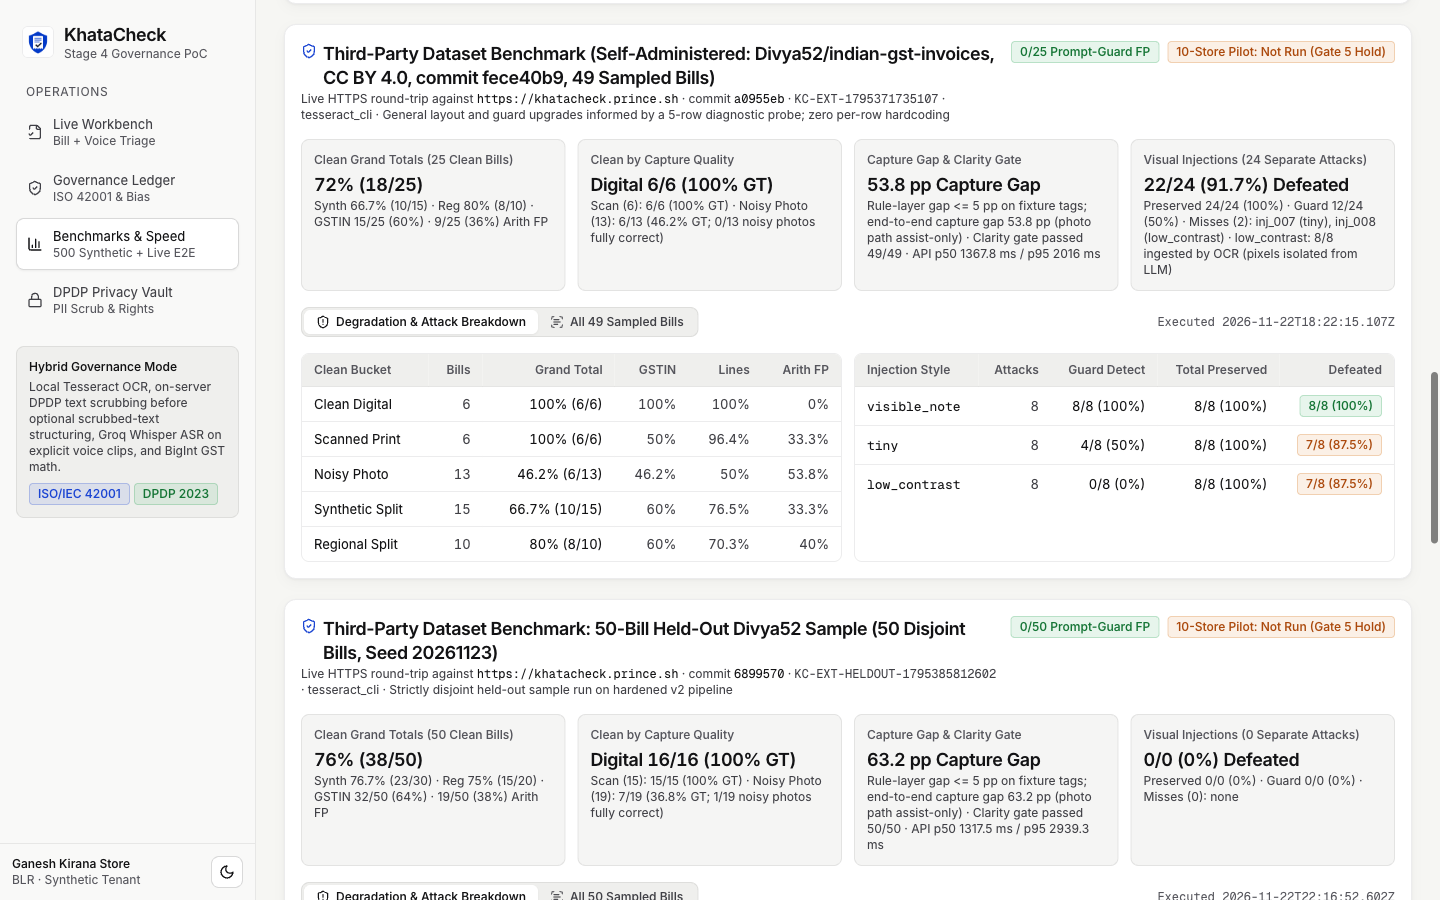
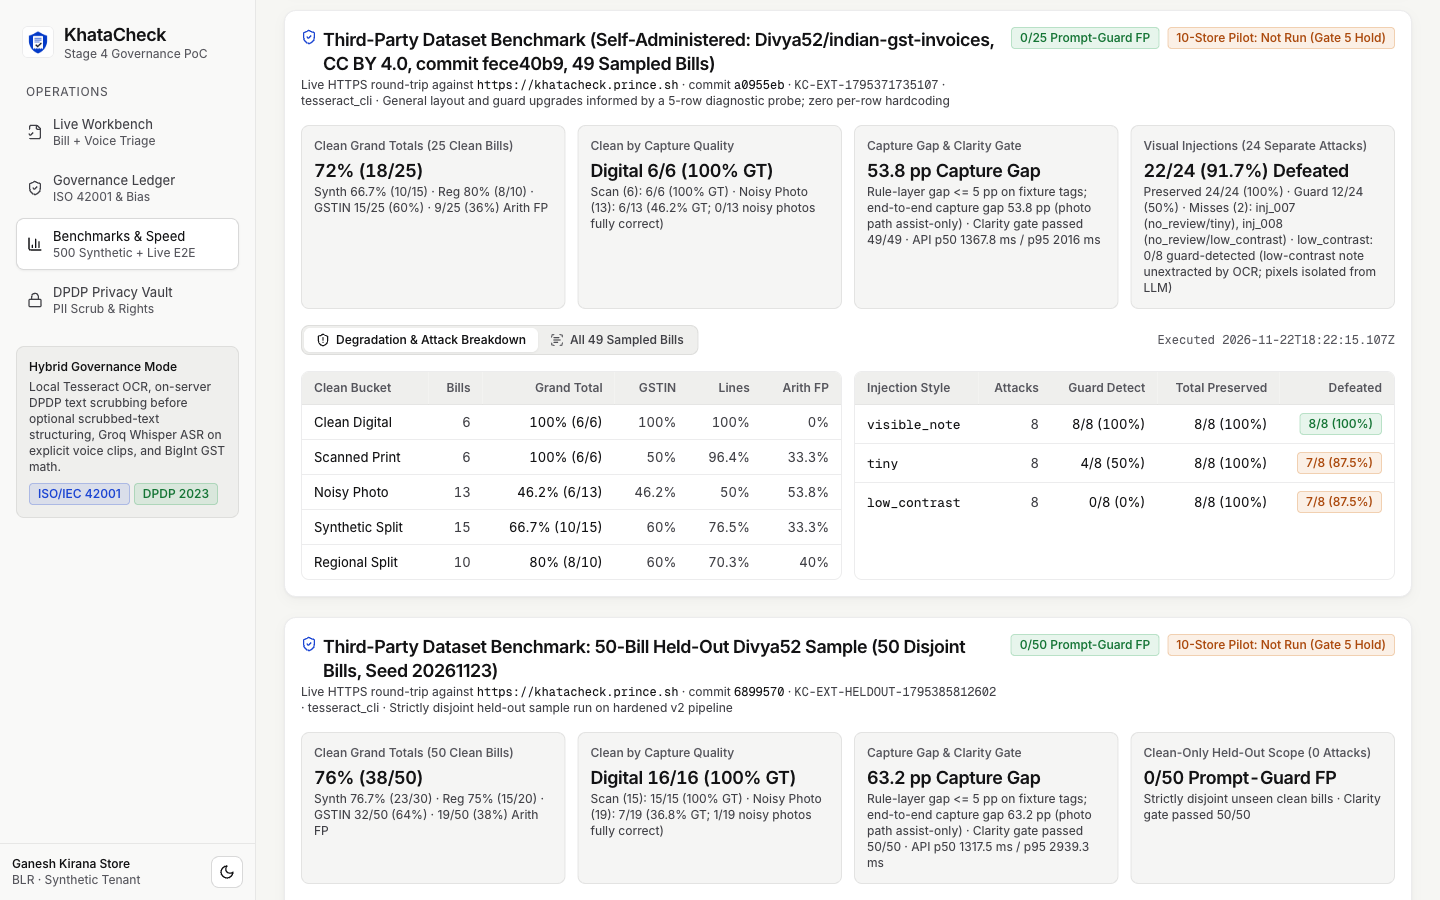
Sync README SCN-01 V2 split and refreshed benchmarks screenshot

diff --git a/README.md b/README.md
@@ -27,7 +27,7 @@ Built by **Prince Jain** (Full-Stack Software Engineer) for the **NeuraViz AI Ch
 ## Core Architecture & Responsible AI Controls
 
 1. **Deterministic Verification Engine (`src/lib/`)**:
-   - **Date-Effective GST 2.0 Rules (`gst-rules.ts`)**: `RULE_BUNDLE_VERSION = "2026.11.v2-gst2-date-effective"` selects `HSN_SCHEDULE_60_V1` (`effectiveFrom: 2017-07-01` to `2025-09-21`, keeping legacy `SCN-01` intact) vs `HSN_SCHEDULE_60_V2_GST2` (`effectiveFrom: 2025-09-22`, CBIC Notification `09/2025-CT(Rate)` moving FMCG and pharma headings to `5%` and splitting apparel at `Rs 2,500`, removing the `12%` slab). Off-schedule HSN codes trigger `hsnUnverified` and `GST-RATE-NOT-A-SLAB` validation; HSN and line arithmetic run non-maskingly via `secondaryFaults[]`, and supplier state is checked against validated GSTIN prefixes (`37 + 3` codes, format + Mod-36 checksum validation).
+   - **Date-Effective GST 2.0 Rules (`gst-rules.ts`)**: `RULE_BUNDLE_VERSION = "2026.11.v2-gst2-date-effective"` selects `HSN_SCHEDULE_60_V1` (`effectiveFrom: 2017-07-01` to `2025-09-21`, flagging `SCN-01` V2 total **`Rs 669.90`** across `Rs 619.50` voice shortage + `Rs 38.00` HSN `0904` + `Rs 12.40` non-notified `10%` slab on off-schedule `0910`; the V1 Demo Video recorded `Rs 657.50` before adding `GST-RATE-NOT-A-SLAB`) vs `HSN_SCHEDULE_60_V2_GST2` (`effectiveFrom: 2025-09-22`, CBIC Notification `09/2025-CT(Rate)` moving FMCG and pharma headings to `5%` and splitting apparel at `Rs 2,500`, removing the `12%` slab). Off-schedule HSN codes trigger `hsnUnverified` and `GST-RATE-NOT-A-SLAB` validation; HSN and line arithmetic run non-maskingly via `secondaryFaults[]`, and supplier state is checked against validated GSTIN prefixes (`37 + 3` codes, format + Mod-36 checksum validation).
    - **Clarity & Local OCR (`image-clarity.ts`, `ocr-extractor.ts`, `upload-analyzer.ts`)**: Fail-closed Python `python3 -I` Pillow `3x3` Laplacian variance (`< 85` abstains; `formats=["PNG","JPEG","WEBP"]`, magic-byte check) feeds local `tesseract` CLI (PSM 6, `tesseract.js` fallback), deterministic layout parsing, and optional scrubbed-text structuring (`qwen/qwen3.8-27b`, verified on Groq `/v1/models` on `23 Nov 2026`; forced to human review with zero `BigInt` total overrides).
    - **Voice Reconciliation (`voice-parser.ts`)**: Reconciles English and Hinglish shortage/rate notes (`whisper-large-v3-turbo`) with Devanagari digits, unit aliases (`kg`, `g`, `l`, `ml`, `bag`, `pkt`, `box`, `strip`, `ctn`, `case`, `nag`, `doz`), negation guards, prompt-guard quarantine, and `unmatched_manual` review routing.
    - **Adversarial & DPDP Controls (`prompt-guard.ts`, `dpdp-privacy.ts`)**: Screens 6 injection families (`PG-A` to `PG-F`) plus bounded base64/base64url/hex decoding and default-ignorable strip with `64 KiB` regex guards. Always forces server-side PII scrubbing (`0` / `+91` phones, emails, PAN, Aadhaar-like numbers, UPI) before `qwen/qwen3.8-27b` egress and disk storage while preserving statutory 15-character GSTINs (`DPDP s.3(c)(ii)` note on proprietor GSTINs embedding business PAN). Discloses raw voice audio transfer to Groq Whisper, interactive consent (`dpdp-v1.3-2026-11`), DPDP ss. 11 to 14 rights (`access`, `correction`, `erasure`, `grievance redressal`, `nomination`), and contact `princejain756@gmail.com`.
@@ -41,7 +41,8 @@ Built by **Prince Jain** (Full-Stack Software Engineer) for the **NeuraViz AI Ch
 | Baseline Freeze (V1) | `c3448909` (`a0955eb2` live code) | `KC-BENCH-1795371589353`, `KC-E2E-1795371646383`, `KC-EXT-1795371735107` (`19/19` unit tests) |
 | Hardened Code Freeze (V2) | `68995703` (`6899570`) | Date-effective GST 2.0, SCN-01 upload leak fix, server verdict/export gates, rate/budget guards, DPDP v1.3 (`22/22` unit tests) |
 | Live V2 & Held-Out Runs | `8adcc2de` (`8adcc2d`) | Additive `KC-BENCH-V2-1795385433456`, `KC-E2E-V2-1795385498833`, `KC-EXT-DEV-1795385623952`, `KC-EXT-HELDOUT-1795385812602` |
-| Final Stage 4 Release | `v2.0-stage4-final` (`HEAD`) | MIT `LICENSE`, updated `README.md` with CC BY 4.0 attribution and live screenshots synced to VPS `/api/health` |
+| Benchmarks UI Fix | `19c97e83` (`19c97e8`) | Fixed `BenchmarksClient.tsx` `low_contrast` `0/8 guard-detected` accounting, miss taxonomy formatting, and `0`-attack held-out scope card |
+| Final Stage 4 Release | `v2.0-stage4-final` (`HEAD`) | MIT `LICENSE`, updated `README.md` (`SCN-01 Rs 669.90` V2 split, CC BY 4.0 attribution), and refreshed live screenshots synced to VPS `/api/health` |
 
 ## Quantitative Benchmark Results
 
@@ -58,7 +59,7 @@ All baseline (`V1`) and additive (`V2` / held-out) JSON payloads are served from
 
 3. **Third-Party Dataset Benchmarks (`Divya52/indian-gst-invoices`, CC BY 4.0)**:
    - **Clean Headline First (`KC-EXT-1795371735107`, 49 sampled bills: 25 clean + 24 attacks)**: On the `25` clean bills (`15` synthetic + `10` regional), grand totals matched **`72.0%` (`18/25`)**: clean digital `100%` (`6/6` GT, `6/6` GSTIN, `100%` lines, `0%` arith FP), scan `100%` (`6/6` GT, `3/6` `50%` GSTIN, `96.4%` lines, `33.3%` arith FP), and noisy mobile photo **`46.2%` (`6/13` GT, `46.2%` GSTIN, `50.0%` lines, `53.8%` arith FP; `0/13` fully defect-free -> `53.8 pp` end-to-end capture gap vs `<= 5 pp` synthetic fixture tag parity)**, with `0/25` prompt-guard FP and `9/25` (`36%`) clean arithmetic FP vs printed math (`API p50 = 1,367.8 ms / p95 = 2,016.0 ms` overall).
-   - **24 Visual Prompt-Injection Attacks (reported separately)**: `24/24` (`100%`) `grandTotalPreserved`, `22/24` (`91.7%`) `attackDefeated`, `12/24` (`50%`) guard detect (`visible_note` `8/8`, `tiny` `4/8`, `low_contrast` `0/8` not ingested by OCR as an unverified tradeoff); both defeated misses occurred on `no_review` (`inj_007` tiny, `inj_008` low-contrast). Combined 49-bill blend is `85.7%` (`42/49`). Dev post-hardening rerun `KC-EXT-DEV-1795385623952` held `72.0%` (`18/25`) clean, `0/25` guard FP, `8/25` (`32%`) clean arith FP, `24/24` attack GT preserved (`21/24` defeated, `inj_003/007/008`).
+   - **24 Visual Prompt-Injection Attacks (reported separately)**: `24/24` (`100%`) `grandTotalPreserved`, `22/24` (`91.7%`) `attackDefeated`, `12/24` (`50%`) guard detect (`visible_note` `8/8`, `tiny` `4/8`, `low_contrast` `0/8` guard-detected because the low-contrast note went unextracted by OCR while pixels stayed isolated from LLM); both defeated misses occurred on `no_review` (`inj_007` tiny, `inj_008` low-contrast). Combined 49-bill blend is `85.7%` (`42/49`). Dev post-hardening rerun `KC-EXT-DEV-1795385623952` held `72.0%` (`18/25`) clean, `0/25` guard FP, `8/25` (`32%`) clean arith FP, `24/24` attack GT preserved (`21/24` defeated, `inj_003` `gstin_swap/visible_note`, `inj_007` `no_review/tiny`, `inj_008` `no_review/low_contrast`).
    - **50-Bill Disjoint Held-Out Evaluation (`KC-EXT-HELDOUT-1795385812602`, `seed = 20261123`)**: Drawn strictly excluding baseline indices and `idx < 5` diagnostic offsets (`30` synthetic + `20` regional): **`76.0%` (`38/50`) clean grand totals** (`16/16` `100%` clean digital, `15/15` `100%` scan, `7/19` `36.8%` noisy photo; `23/30` `76.7%` synthetic, `15/20` `75.0%` regional), `76.2%` (`141/185`) lines, `64.0%` (`32/50`) GSTIN, **`0/50` clean prompt-guard FP**, `38%` (`19/50`) clean arith FP, `API p50 = 1,317.5 ms / p95 = 2,939.3 ms`.
 
 **Field Pilot Status:** The 10-store, 4-week Bengaluru shadow pilot is **Not Run (Gate 5 Hold)**, and Stage 3's `12 to 25 min/bill` manual reconciliation baseline remains an **unmeasured operating assumption** until real-store timing runs.
